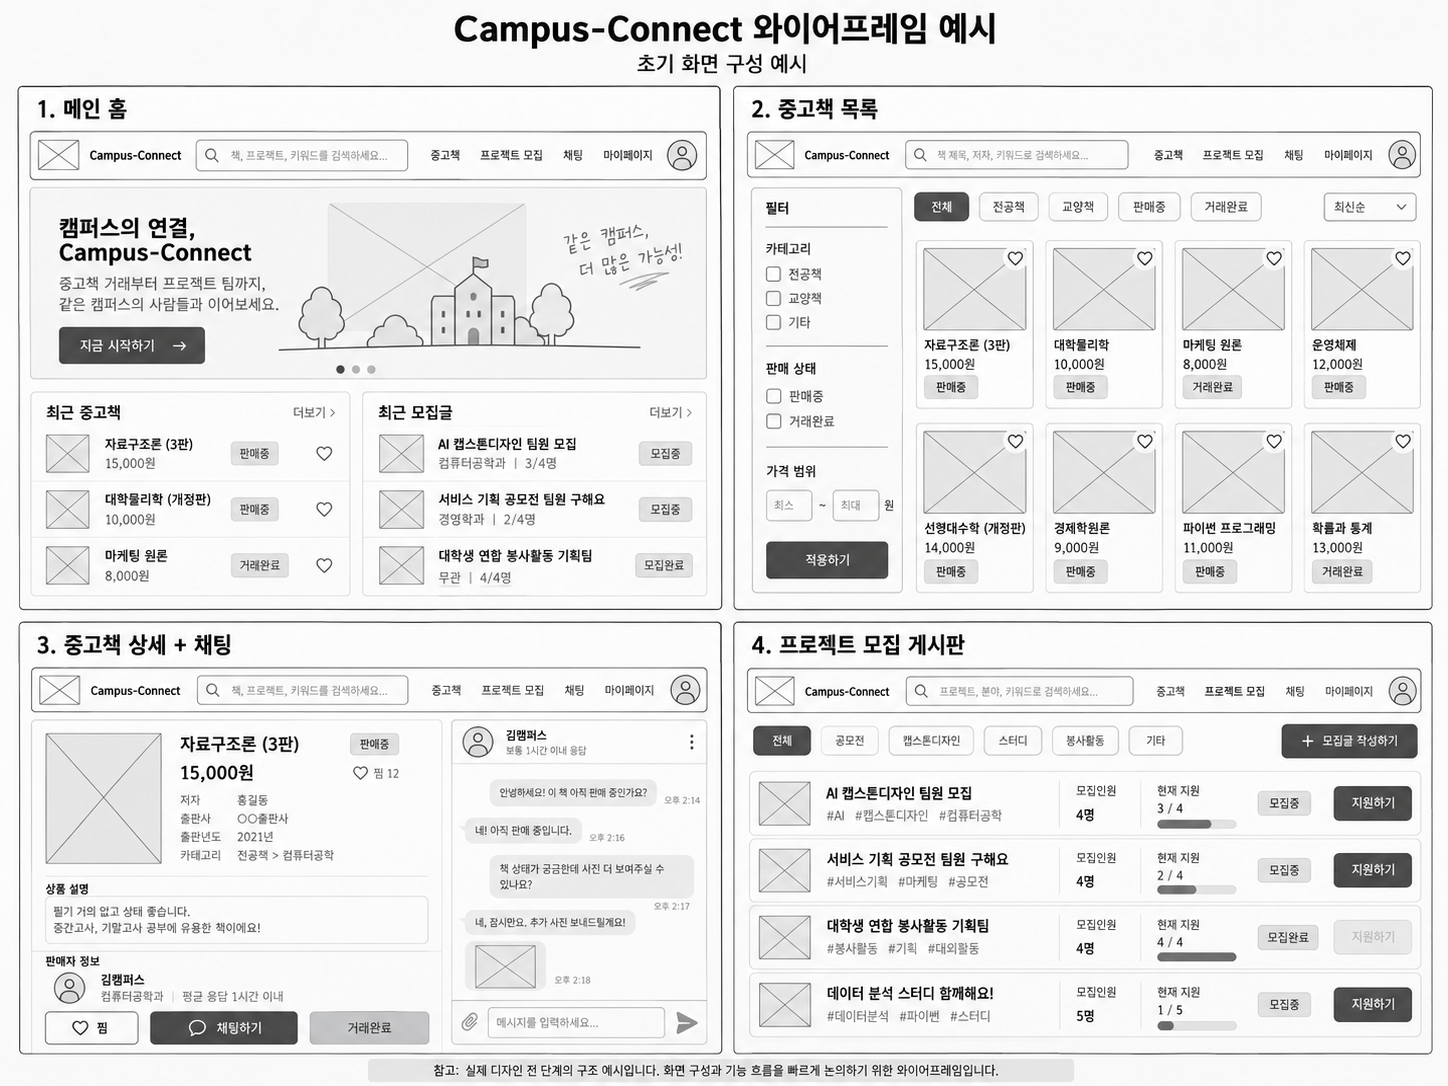
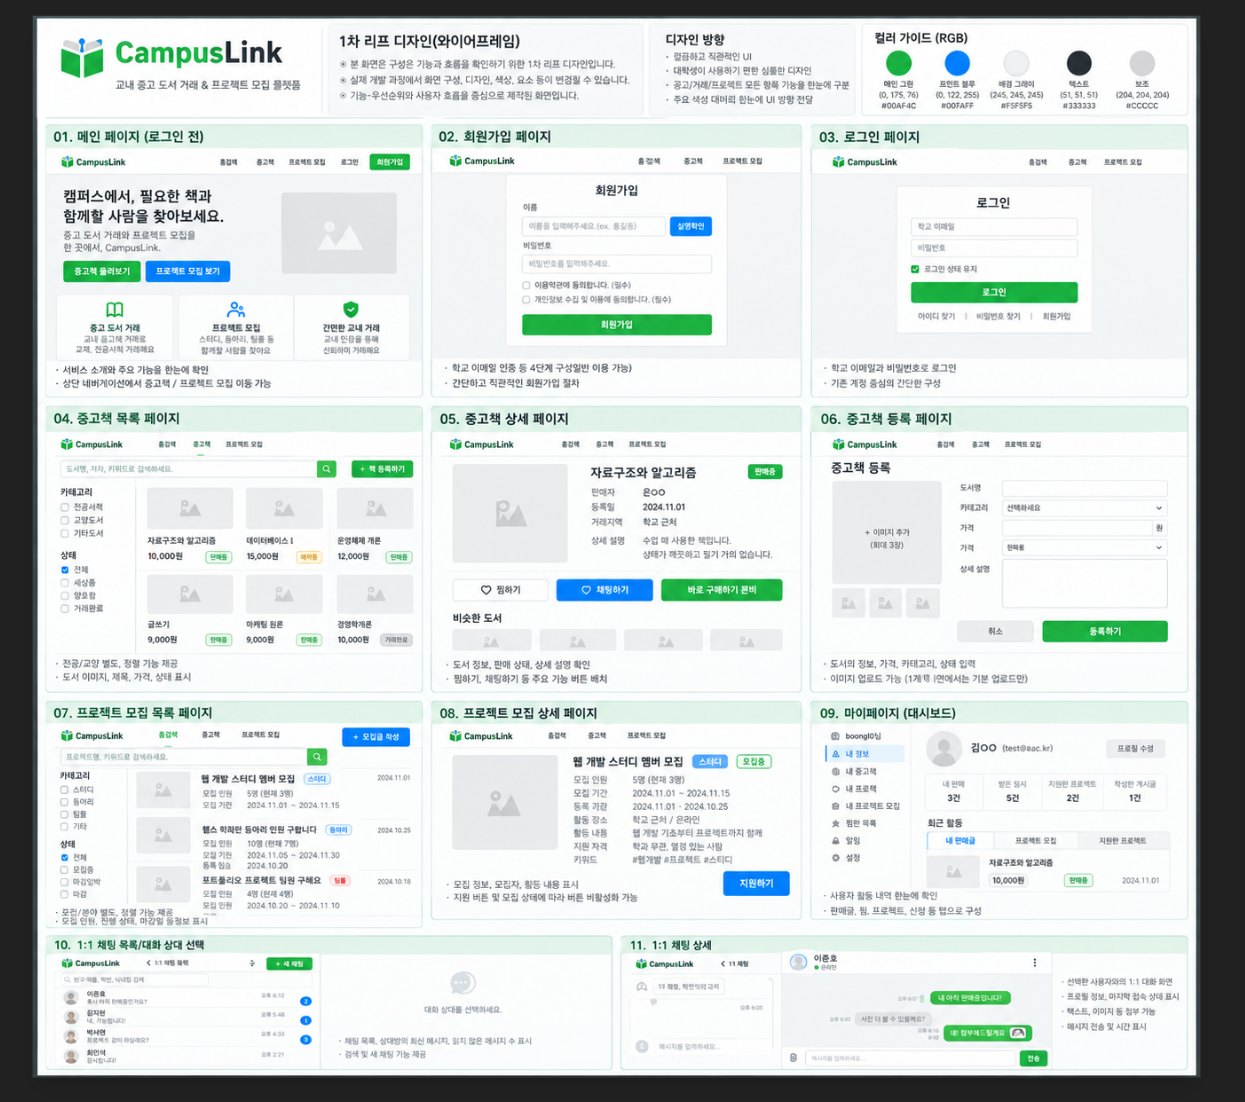
docs: replace wireframe reference with first rough design

diff --git a/docs/wireframe.md b/docs/wireframe.md
@@ -1,7 +1,7 @@
-# 와이어프레임 예시
+# CampusLink 1차 러프 디자인
 
-초기 화면 구성과 기능 흐름을 함께 논의하기 위한 참고용 예시입니다. 실제 디자인 확정본이 아니며, 개발 과정에서 화면과 동선은 변경될 수 있습니다.
+팀에서 제작한 1차 화면 구성 참고자료입니다. 실제 디자인 확정본이 아니며, 개발 과정에서 화면과 동선은 변경될 수 있습니다.
 
-그림의 사진 영역과 사진 전송은 화면 예시입니다. 이미지 업로드는 현재 구현 범위에서 제외합니다.
+그림의 사진 영역과 사진 전송은 화면 예시입니다. 이미지 업로드는 현재 구현 범위에서 제외합니다. 인증·거래·모집 방식은 기존 팀 회의 결정과 개발 범위를 따릅니다.
 
-![Campus-Connect 와이어프레임 예시](./images/campus-connect-wireframe-example.png)
+![CampusLink 1차 러프 디자인](./images/campus-connect-wireframe-example.png)
